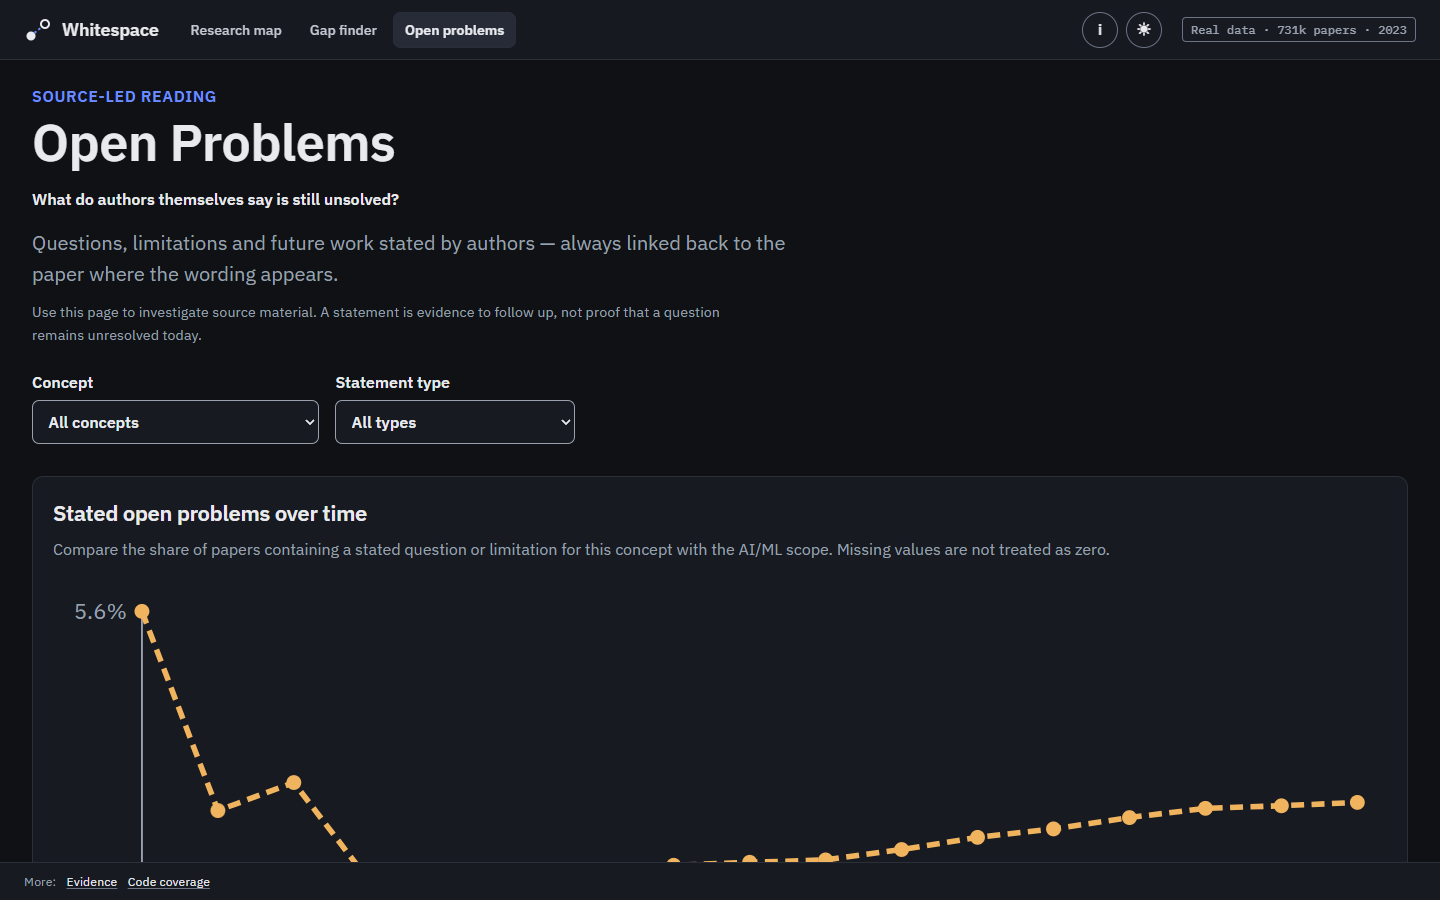
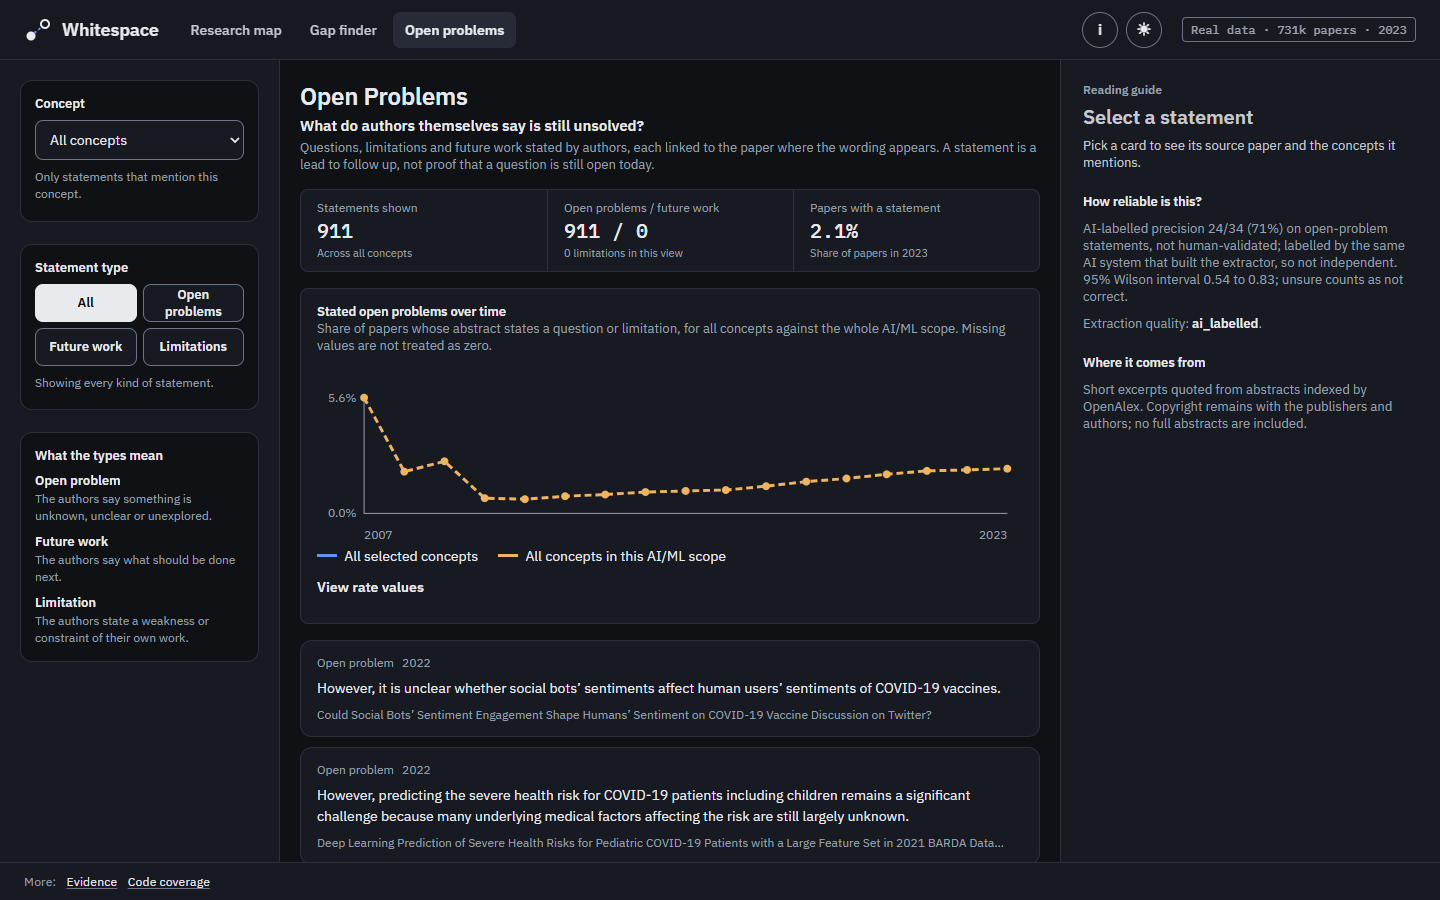
docs(#252): recapture the redesigned Open problems page

diff --git a/README.md b/README.md
@@ -29,7 +29,7 @@ Research moves faster than people can read it. Search finds work that already ex
 
 - **Research map:** explore the latest snapshot as a 3D graph. Branch hubs are clusters found in the map layout and named for the words their concepts share; they are derived in the app, not exported by the pipeline. Each branch links to its largest concepts, coloured from red for the biggest to blue for the smallest. An option draws the top-ranked gaps as bridges between the two concepts they join. Selecting a branch, concept or gap opens its details; a concept shows its papers per year, its growth and the gaps it appears in. The summary counts distinct papers in the corpus. The map has no time slider.
 - **Gap finder:** review unlinked concept pairs, their scores and supporting papers. Momentum counts only when both concepts are growing, and summary stats count only concepts with positive growth. A list of 534 generic filler phrases (for example "vice versa" or non-English function words) is hidden from this list only, and no concept appears in more than three listed gaps; the vocabulary, model and backtest are unchanged. A stated-gaps column shows how often papers on each side state an open problem; it is context only and does not change the gap score or rank. Likelihoods come from the production model, which has no held-out test of its own, so they are rankings, not chances. Paper-title search is unavailable; the search box filters concept names only.
-- **Open problems:** read 911 short open-problem excerpts quoted from abstracts indexed by OpenAlex. Each is attributed and linked to its source paper, and copyright remains with the publishers and authors. They are for display only. A pattern filter selected them. On open-problem statements, AI-labelled precision is 24/34 (71%), not human-validated, and the labels come from the same AI system that built the extractor, so they are not independent ([issue #270](https://github.com/PersiaF04/HACKTHEBURGH-26/issues/270)). Future-work and limitation statements measured worse and are not shown. Filter by concept, and compare the stated-problem rate over time with the wider AI scope.
+- **Open problems:** read 911 short open-problem excerpts quoted from abstracts indexed by OpenAlex. Each is attributed and linked to its source paper, and copyright remains with the publishers and authors. They are for display only. A pattern filter selected them. On open-problem statements, AI-labelled precision is 24/34 (71%), not human-validated, and the labels come from the same AI system that built the extractor, so they are not independent ([issue #270](https://github.com/PersiaF04/HACKTHEBURGH-26/issues/270)). Future-work and limitation statements measured worse and are not in this export. Filter by concept or statement type, compare the stated-problem rate over time with the wider AI scope, and select a statement to see its source paper.
 - **Evidence:** at [`/evidence`](https://whitespace-hacktheburgh-26.vercel.app/evidence), a headline card states the pre-registered verdict (aggregate only) with its caveats and a link to issue #122. A technical-detail section holds ranking tables comparing each method's P@100, AP and ROC AUC against the base rate, calibration, and hits and misses. The paper-to-code hand-check is shown as not yet measured.
 - **Code coverage:** explore the concept-by-year archive coverage and papers without a linked record at [`/coverage`](https://whitespace-hacktheburgh-26.vercel.app/coverage). Coverage uses publication years, so its range can differ from the map's snapshot years.
 
